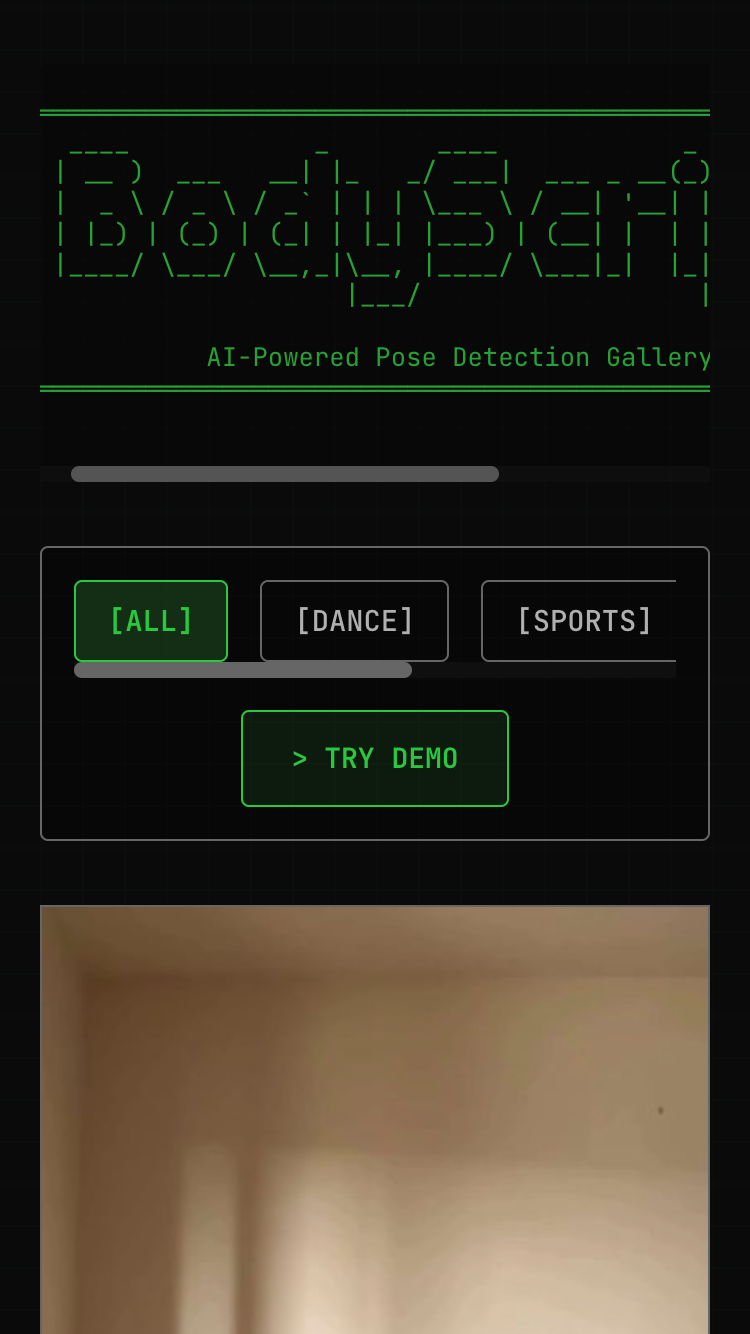
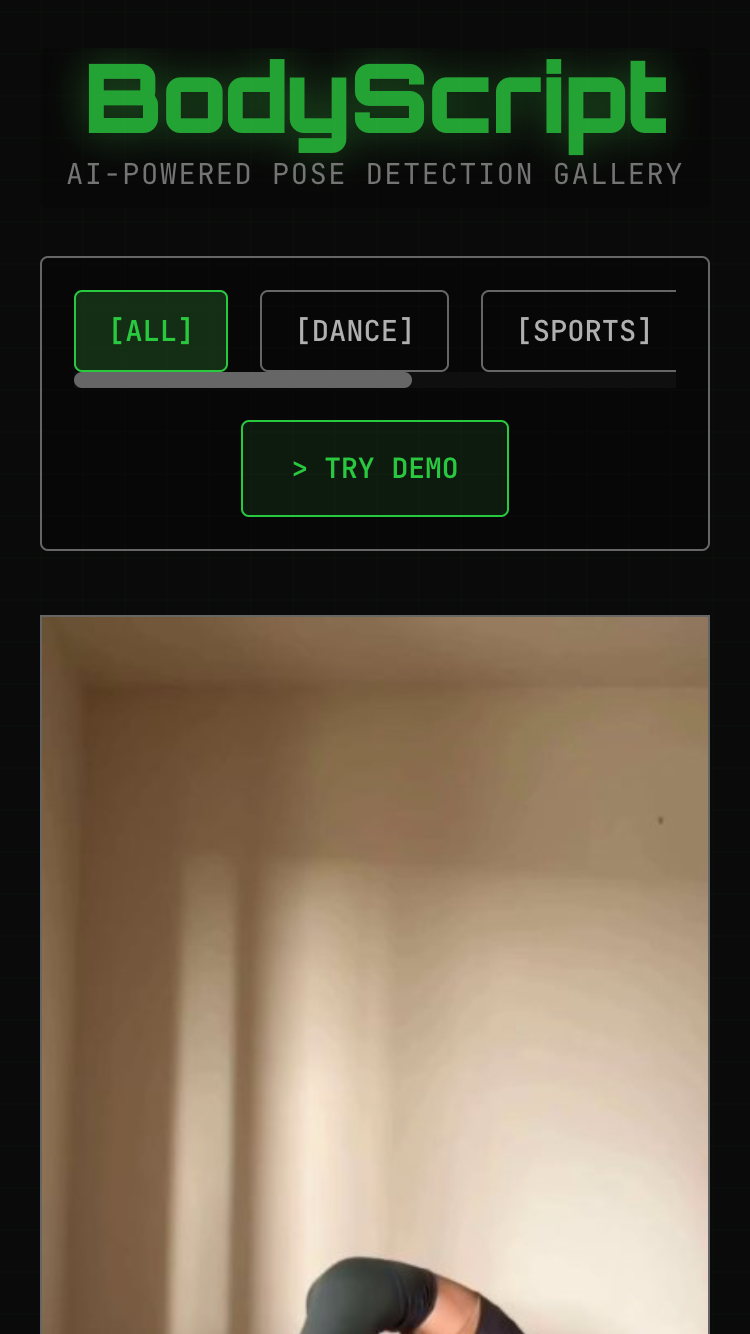
mange title

diff --git a/frontend/css/pages/gallery.css b/frontend/css/pages/gallery.css
@@ -485,10 +485,56 @@ body {
   .terminal-stats {
     grid-template-columns: 1fr;
   }
+
+  /* Hide the ASCII art content on mobile */
+  .ascii-logo {
+    font-size: 0 !important;
+    line-height: 0 !important;
+    position: relative;
+    height: 80px;
+    margin: 1.5rem 0;
+  }
+
+  /* Show main title */
+  .ascii-logo::before {
+    content: "BodyScript";
+    position: absolute;
+    top: 0;
+    left: 0;
+    right: 0;
+    font-family: 'Orbitron', sans-serif;
+    font-size: 3rem;
+    line-height: 1;
+    font-weight: 900;
+    color: var(--text-terminal-green);
+    letter-spacing: -0.02em;
+    text-shadow: 0 0 20px rgba(39, 201, 63, 0.5);
+    text-align: center;
+  }
+
+  /* Show subtitle */
+  .ascii-logo::after {
+    content: "AI-Powered Pose Detection Gallery";
+    position: absolute;
+    top: 3.5rem;
+    left: 0;
+    right: 0;
+    font-family: 'JetBrains Mono', monospace;
+    font-size: 0.9rem;
+    line-height: 1;
+    font-weight: 400;
+    color: var(--text-secondary);
+    text-align: center;
+    letter-spacing: 0.05em;
+    text-transform: uppercase;
+    opacity: 0.8;
+  }
 }
 
 @media (max-width: 480px) {
   .terminal-grid {
     grid-template-columns: 1fr;
   }
+
+  /* Text is already handled by 640px breakpoint */
 }

diff --git a/frontend/index.html b/frontend/index.html
@@ -6,7 +6,7 @@
   <title>BodyScript Gallery - Terminal Style</title>
 
   <!-- Font for terminal style -->
-  <link href="https://fonts.googleapis.com/css2?family=JetBrains+Mono:wght@400;600;700&display=swap" rel="stylesheet">
+  <link href="https://fonts.googleapis.com/css2?family=JetBrains+Mono:wght@400;600;700&family=Orbitron:wght@700;800;900&display=swap" rel="stylesheet">
 
   <!-- Configuration -->
   <script src="config.js"></script>
